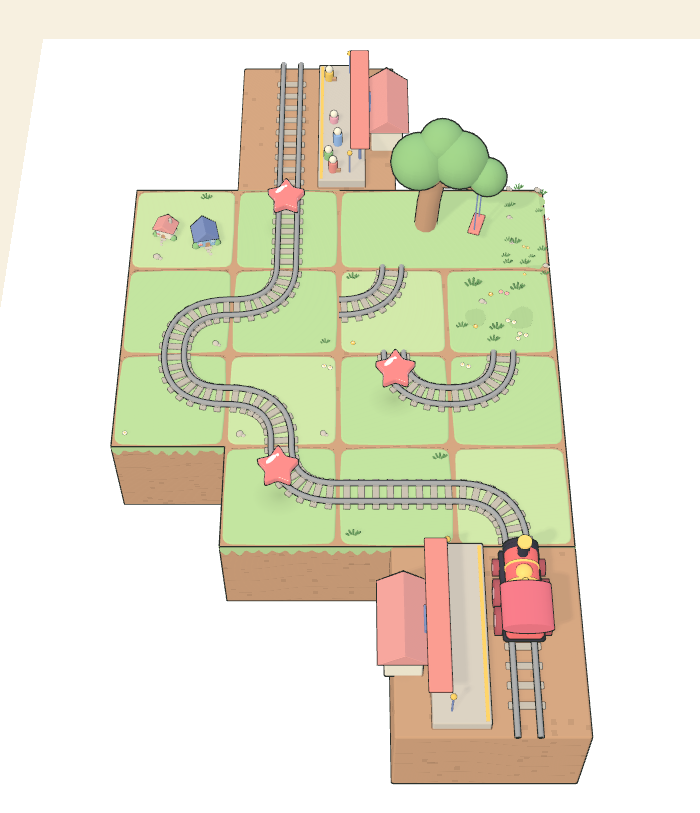
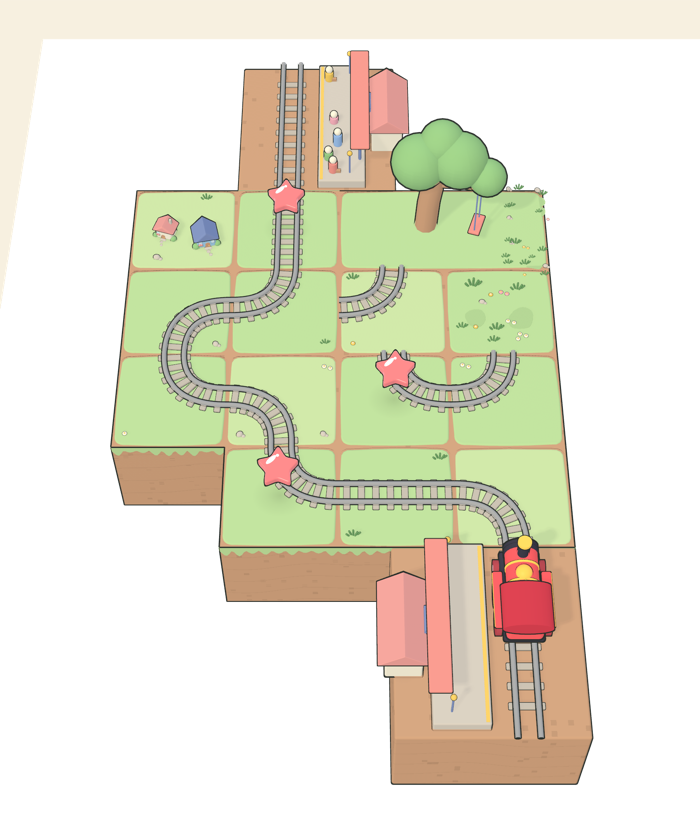
Clarify Choochoo heading and render the board at higher resolution

diff --git a/choochoo/index.html b/choochoo/index.html
@@ -8,18 +8,21 @@
     <meta name="description" content="Turn the tracks, collect stars, and guide the train to the station. Watch the cozy worlds come to life in color.">
     <link rel="canonical" href="https://binge.movie/choochoo/">
     <link rel="icon" type="image/png" sizes="32x32" href="/choochoo/favicon.png?v=2">
-    <link rel="stylesheet" href="/choochoo/style.css?v=9">
+    <link rel="stylesheet" href="/choochoo/style.css?v=10">
 </head>
 
 <body>
     <main>
         <div class="app-artwork">
             <div class="board-backdrop" aria-hidden="true">
-                <img src="/choochoo/meadow-board.png" width="700" height="813" alt="" decoding="async">
+                <img src="/choochoo/meadow-board.png?v=2"
+                     srcset="/choochoo/meadow-board.png?v=2 700w, /choochoo/meadow-board-large.png 1800w"
+                     sizes="(min-width: 900px) 981px, 109vw"
+                     width="700" height="814" alt="" decoding="async">
             </div>
             <img class="app-icon" src="/choochoo/app-icon.png?v=2" width="384" height="384" alt="">
         </div>
-        <h1>Choochoo: <span>A Cozy Journey</span></h1>
+        <h1>Choochoo <span>A Cozy Journey</span></h1>
         <p>Turn the tracks, collect stars, and guide the train to the station. Watch the cozy worlds come to life in color.</p>
         <a class="app-store" href="https://apps.apple.com/app/id6833695828">
             <img src="/download.svg" width="144" height="48" alt="Download on the App Store">

diff --git a/choochoo/style.css b/choochoo/style.css
@@ -42,15 +42,15 @@ main {
     overflow: hidden;
     transform: translate(-50%, -52%);
     pointer-events: none;
-    opacity: 0.82;
+    opacity: 0.9;
     mask-image:
         /* Upper left */
-        radial-gradient(ellipse 19% 22% at 29% 33%, #000 45%, transparent 100%),
-        radial-gradient(ellipse 12% 15% at 21% 39%, #000d 18%, transparent 100%),
+        radial-gradient(ellipse 19% 22% at 29% 33%, #000 57%, transparent 100%),
+        radial-gradient(ellipse 12% 15% at 21% 39%, #000e 28%, transparent 100%),
         radial-gradient(ellipse 13% 16% at 35% 21%, #000c 14%, transparent 100%),
         /* Lower right */
-        radial-gradient(ellipse 20% 22% at 69% 66%, #000 45%, transparent 100%),
-        radial-gradient(ellipse 13% 16% at 78% 59%, #000d 18%, transparent 100%),
+        radial-gradient(ellipse 20% 22% at 69% 66%, #000 57%, transparent 100%),
+        radial-gradient(ellipse 13% 16% at 78% 59%, #000e 28%, transparent 100%),
         radial-gradient(ellipse 13% 16% at 64% 79%, #000c 14%, transparent 100%);
     mask-size: 100% 100%;
     mask-position: center;
